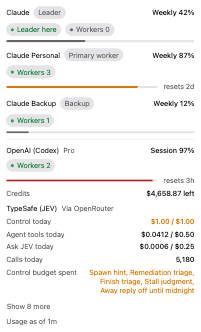
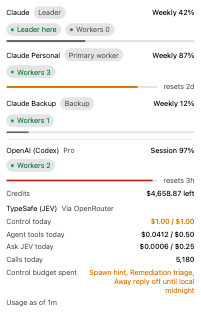
test(jev): fix stale F6 fixture in the budget strip test
account-budget-strip.browser.test.tsx still hand-built the pre-F6
per-feature JEV details and had no coverage of pressing the JEV row to
open /jev. Update the fixture to the real buildJevUsage shape (lane
alerts only), add tests for press-to-open and the chevron/pressable
gate, and regenerate the committed strip captures.

diff --git a/packages/app/src/orchestration/account-budget-strip.browser.test.tsx b/packages/app/src/orchestration/account-budget-strip.browser.test.tsx
@@ -89,8 +89,9 @@ const OPENAI_USAGE: ProviderUsage = {
   details: [{ id: "status", label: "Status", value: "active" }],
 };
 
-// JEV as its fetcher reports it on a day the control lane ran out: the spent lane first, then each
-// feature with its mode and what it did or would have done.
+// JEV as its fetcher reports it on a day the control lane ran out: the spent lane, nothing else.
+// Per-feature lines moved to the JEV dashboard (docs/jev.md, "The JEV dashboard" → "Links with
+// feature 11"); the strip's own details are lane alerts only.
 const JEV_USAGE: ProviderUsage = {
   providerId: "jev",
   displayName: "JEV",
@@ -114,35 +115,9 @@ const JEV_USAGE: ProviderUsage = {
     {
       id: "lane:control:spent",
       label: "Control budget spent",
-      value:
-        "Spawn hint, Remediation triage, Finish triage, Stall judgment, Away reply off until midnight",
+      value: "Spawn hint, Remediation triage, Away reply off until local midnight",
       tone: "warning",
     },
-    {
-      id: "feature:spawnHint",
-      label: "Spawn hint",
-      value: "Shadow · 14 creates answered 11 mechanical, 3 hard · $0.004",
-    },
-    {
-      id: "feature:remediationTriage",
-      label: "Remediation triage",
-      value:
-        "Shadow · 3× would have: no remediation agent; sent to a person of 5 decisions · $0.002",
-    },
-    {
-      id: "feature:notificationTriage",
-      label: "Finish triage",
-      value: "Shadow · 22 decisions, none would change anything · $0.009",
-    },
-    { id: "feature:stallJudgment", label: "Stall judgment", value: "Shadow" },
-    { id: "feature:compactionTiming", label: "Compaction timing", value: "Off" },
-    {
-      id: "feature:awayReply",
-      label: "Away reply",
-      value: "Dry run · 2× would reply of 3 decisions",
-    },
-    { id: "feature:agentTools", label: "Agent tools", value: "Live · 96 calls today · $0.041" },
-    { id: "feature:askJev", label: "Ask JEV", value: "Live · 2 questions today" },
   ],
 };
 
@@ -177,18 +152,20 @@ const FIXTURE_ROWS = buildAccountBudgetRows(
 
 const FETCHED_AT = new Date(FIXTURE_NOW_MS - 90_000);
 
-function openJevDetails(container: HTMLElement) {
-  const toggle = container.querySelector<HTMLElement>(
-    '[data-testid="orchestration-account-details-toggle-jev"]',
-  );
-  expect(toggle?.textContent).toBe("Show 8 more");
-  act(() => toggle?.click());
-  expect(toggle?.textContent).toBe("Show less");
+function click(element: Element | null | undefined): void {
+  act(() => {
+    (element as HTMLElement)?.click();
+  });
 }
 
-function Strip() {
+function Strip({ onOpenJevDashboard }: { onOpenJevDashboard?: (serverId: string) => void }) {
   return (
-    <AccountBudgetStripView rows={FIXTURE_ROWS} serverId="fixture-host" fetchedAt={FETCHED_AT} />
+    <AccountBudgetStripView
+      rows={FIXTURE_ROWS}
+      serverId="fixture-host"
+      fetchedAt={FETCHED_AT}
+      onOpenJevDashboard={onOpenJevDashboard}
+    />
   );
 }
 
@@ -201,9 +178,9 @@ describe.each([
   { name: "phone", width: 390, compact: true },
   { name: "desktop", width: 760, compact: false },
 ])("account budget strip on $name", ({ name, width, compact }) => {
-  function mountStrip() {
+  function mountStrip(onOpenJevDashboard?: (serverId: string) => void) {
     layout.compact = compact;
-    return mount(<Strip />, width);
+    return mount(<Strip onOpenJevDashboard={onOpenJevDashboard} />, width);
   }
 
   it("shows the Claude pool, then the OpenAI account set apart from it", () => {
@@ -246,30 +223,19 @@ describe.each([
       '[data-testid="orchestration-account-detail-lane:control:spent"]',
     );
     expect(spent?.textContent).toContain("Control budget spent");
-    expect(spent?.textContent).toContain("off until midnight");
+    expect(spent?.textContent).toContain("off until local midnight");
   });
 
-  it("lists each JEV feature with its mode and what it would have done", () => {
-    const container = mountStrip();
-    openJevDetails(container);
-    const detail = (id: string) =>
-      container.querySelector(`[data-testid="orchestration-account-detail-feature:${id}"]`)
-        ?.textContent;
-    expect(detail("spawnHint")).toBe(
-      "Spawn hintShadow · 14 creates answered 11 mechanical, 3 hard · $0.004",
-    );
-    expect(detail("awayReply")).toBe("Away replyDry run · 2× would reply of 3 decisions");
-    expect(detail("compactionTiming")).toBe("Compaction timingOff");
-    expect(detail("askJev")).toBe("Ask JEVLive · 2 questions today");
-  });
-
-  it("keeps the spent lane in view whether or not the feature list is open", () => {
+  it("shows the spent lane with no per-feature list and no fold toggle", () => {
     const container = mountStrip();
     const shown = (id: string) =>
       container.querySelector(`[data-testid="orchestration-account-detail-${id}"]`) !== null;
     expect(shown("lane:control:spent")).toBe(true);
-    // The feature list folds behind a toggle on every form factor.
+    // Per-feature lines moved to the JEV dashboard; there's nothing left to fold.
     expect(shown("feature:spawnHint")).toBe(false);
+    expect(
+      container.querySelector('[data-testid="orchestration-account-details-toggle-jev"]'),
+    ).toBeNull();
   });
 
   it("keeps another provider's details off the strip", () => {
@@ -314,14 +280,32 @@ describe.each([
     expect(overflowing.map((node) => node.getAttribute("data-testid") ?? node.tagName)).toEqual([]);
   });
 
-  it("captures the strip with JEV's features open", async () => {
-    await page.viewport(width + 24, 1400);
-    const container = mountStrip();
-    openJevDetails(container);
-    await page.screenshot({
-      element: container,
-      path: `../../../../.artifacts/orchestration-account-strip-${name}-jev-open.png`,
-    });
+  // Pressability and the chevron are driven by the same `isJev` gate in AccountBudgetRow
+  // (account-budget-strip-view.tsx), so asserting `aria-disabled` here also covers the chevron:
+  // the icon library renders nothing in this harness (no unistyles runtime), so it can't be
+  // queried directly.
+  it("is pressable only on the JEV row, and only when a dashboard handler is given", () => {
+    const disabled = (container: HTMLElement, id: string) =>
+      container
+        .querySelector(`[data-testid="orchestration-account-${id}"]`)
+        ?.getAttribute("aria-disabled");
+    const withHandler = mountStrip(vi.fn());
+    expect(disabled(withHandler, "jev")).toBeNull();
+    expect(disabled(withHandler, "codex")).toBe("true");
+    expect(disabled(withHandler, "claude")).toBe("true");
+
+    const withoutHandler = mountStrip();
+    expect(disabled(withoutHandler, "jev")).toBe("true");
+  });
+
+  it("opens the JEV dashboard for this host when its row is pressed", () => {
+    const onOpenJevDashboard = vi.fn();
+    const container = mountStrip(onOpenJevDashboard);
+    click(container.querySelector('[data-testid="orchestration-account-jev"]'));
+    expect(onOpenJevDashboard).toHaveBeenCalledExactlyOnceWith("fixture-host");
+
+    click(container.querySelector('[data-testid="orchestration-account-codex"]'));
+    expect(onOpenJevDashboard).toHaveBeenCalledOnce();
   });
 
   it("captures the strip", async () => {
